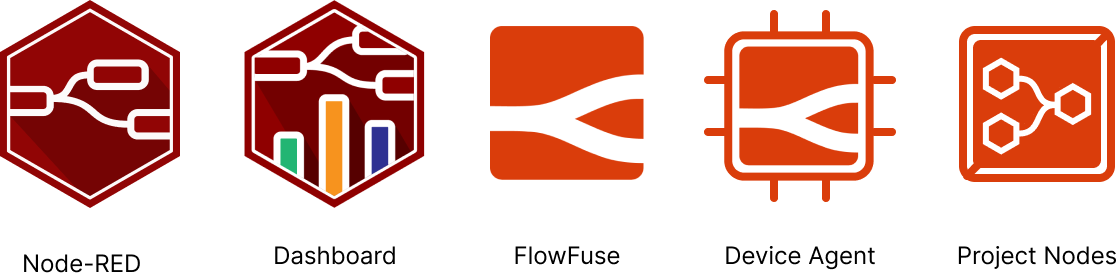
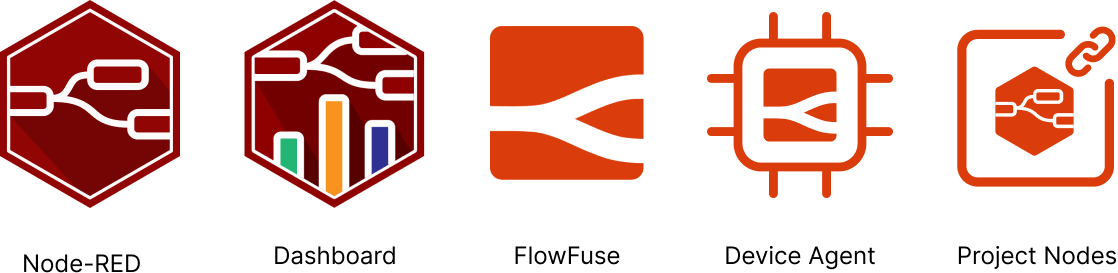
Finish off the "Architecture" section of the article

diff --git a/src/blog/2024/07/building-on-flowfuse-devices.md b/src/blog/2024/07/building-on-flowfuse-devices.md
@@ -26,9 +26,11 @@ stories:
 
 {% from "stories/customer-story.njk" import storyTile %}
 
-FlowFuse has established a rich ecosystem of products to help you build bespoke, powerful, low-code applications. We've seen customers utilizing these to [revolutionise precision manufacturing](https://flowfuse.com/customer-stories/leveraging-node-red-and-flowfuse-to-automate-precision-manufacturing/), [automate building management](https://flowfuse.com/customer-stories/node-red-building-management/) and [modernize the distribution of global weather data](https://flowfuse.com/customer-stories/un-wmo-nr-data-sharing/), just to name a few examples. 
+FlowFuse has established a rich ecosystem of products to help you build bespoke, powerful, low-code applications.
 
-In this series of articles, we'll be taking a look at the common architectures and design patterns we are seeing used across our customer base, and how you can use these to build your own applications. To kick things off, this article will focus on "Remote Device Monitoring".
+We've seen customers utilizing these to [revolutionise precision manufacturing](https://flowfuse.com/customer-stories/leveraging-node-red-and-flowfuse-to-automate-precision-manufacturing/), [automate building management](https://flowfuse.com/customer-stories/node-red-building-management/) and [modernize the distribution of global weather data](https://flowfuse.com/customer-stories/un-wmo-nr-data-sharing/), just to name a few examples. 
+
+In this series of articles, we'll be taking a look at the common architectures and design patterns we are seeing used across our customer base, and how you can use these to build your own applications. To kick things off, this article will focus on **"Remote Device Monitoring"**.
 
 <!--more-->
 
@@ -54,7 +56,23 @@ Then, we have to consider that this functionality needs to be deployed out to th
 
 Let's consider an example architecture set in an automotive plant:
 
+![Diagram showing the architecture of a "Device Monitoring" use case in an automotive plant.](./images/device-monitoring-architecture.png){data-zoomable}
+_Diagram showing an example architecture of a "Device Monitoring" use case in an automotive plant._
 
+- **Body Shop:** Here we have several piece of machinery, each with the "FlowFuse Device Agent" installed. This allows us to manage the Node-RED deployments on these machines remotely from FlowFuse, and easily extract data from the machines for analysis.
+- **Plant:** We have multiple servers running at the Planet-level, generally one for each "Shop", each with their own Device Agent installed, again for easy remote management and deployment of Node-RED, e.g. Dashboards that provide a single HMI for monitoring hardware across a full shop. Here, we also have our instance of FlowFuse. This is the central point for managing all of our Node-RED deployments across the factory floor.
+- **Company IT Dept:** The general IT department of the company would provide multiple servers and services, accessible to a range of departments and the plant. Node-RED could act as a bridge between the Plant and the Company IT Dept, allowing us to easily extract data from the Plant and send it to the Company IT Dept, and vice-versa.
+- **Cloud:** Here we demonstrate how a company may have external Cloud-based services they're dependent upon. For example, image analytics services. Node-RED can be used to parse machine imagery, and integrate straight with these external services from the FlowFuse server.
+
+This diagram also demonstrates a sample of the rich ecosystem of communication protocols that Node-RED can support:
+
+- **TCP:** Show here to interface between...
+- **EtherNet/IP:** Insert example of what this would be used for in such a use case...
+- **MQTT:**  Insert example of what this would be used for in such a use case...
+- **OPC-UA:**  Insert example of what this would be used for in such a use case...
+- **Modbus:**  Insert example of what this would be used for in such a use case...
+- **MC Protocol:**  Insert example of what this would be used for in such a use case...
+- **Siemens S7:**  Insert example of what this would be used for in such a use case...
 
 ### FlowFuse Technology Stack
 
@@ -63,10 +81,10 @@ Given the above architecture, let's take a look at the relevant FlowFuse offerin
 ![Lineup of each of the FlowFuse offerings](./images/ff-ecosystem-lineup.png){data-zoomable}
 
 - **Node-RED:** Low-code, drag-and-drop integration platform. Here we'd be using it in multiple places to read and parse data from the hardware, define the application logic, conduct analysis and provide alerting.
-- **FlowFuse Dashboard:** An add-on to Node-RED for building interactive user interfaces and dashboards. We use this here to provide visual feedback on device performance and behaviors, making it easy for our workers to get an at-a-glance view of our plant.
-- **FlowFuse:** Centralized platform that provides a single entry point to manage all of your Node-RED applications and deployments. Provides role-based access control out of the box, so we can easily control who has access to flows, Dashboards and other configurations.
-- **FlowFuse Device Agent:** Installed onto the relevant hardware, this links your hardware to FlowFuse. Here, we're deploying it to multiple pieces of machinery, as well as local servers, such that we can easily manage (deploy, upgrade, debug) all of those Node-RED deployments centrally (and remotely) from FlowFuse.
-- **FlowFuse Project Nodes:** A small collection of nodes for Node-RED that provide communication over a secure (MQTT-based) connection between devices (our Node-RED deployments on our hardware in this case) and our hosted instances of Node-RED on FlowFuse.
+- **FlowFuse Dashboard:** An add-on to Node-RED for building interactive user interfaces and dashboards. We use this here to provide visual feedback on local Dashboards for some devices, as well as at the Planet-level to provide an at-a-glance view of our plant.
+- **FlowFuse:** Centralized platform that provides a single entry point to manage all of your Node-RED applications and deployments, from your device inetrgators, through to your dashboards. FlowFuse provides role-based access control out of the box, so we can easily control who has access to flows, Dashboards and other configurations.
+- **FlowFuse Device Agent:** Installed onto the relevant servers and hardware, this links you directly, and securely to FlowFuse. Here, we're deploying it to multiple pieces of machinery, as well as local servers, such that we can easily manage (deploy, upgrade, debug) all of those Node-RED deployments remotely from FlowFuse.
+- **FlowFuse Project Nodes:** A small collection of nodes for Node-RED, running on FlowFuse, that provide communication over a secure (MQTT-based) connection between devices (our Node-RED deployments on our hardware in this case) and our hosted instances of Node-RED on FlowFuse. Extremely useful for reporting live sensor data back to FlowFuse for analysis, and for reporting information back to our devices.
 
 ## What Next?
 
